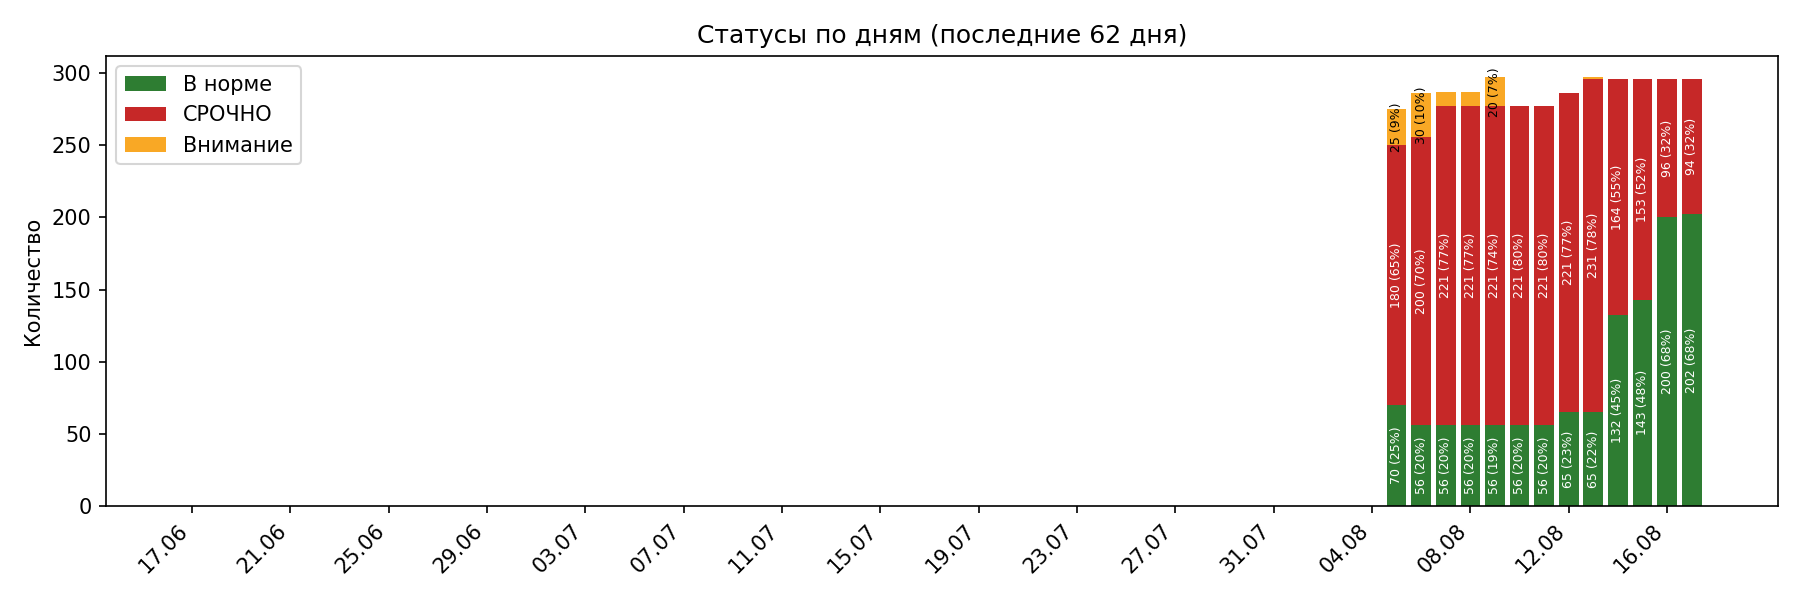
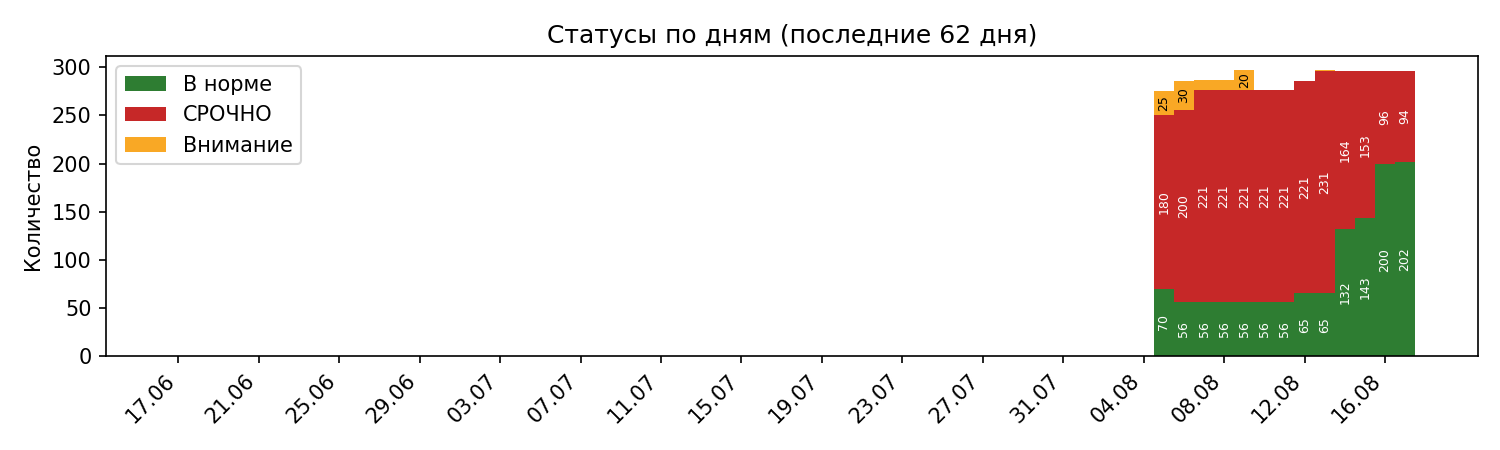
Изменены параметры визуализации графиков в функции create_email_body в maintenance_alert.py: уменьшены размеры фигуры и добавлена ширина для столбцов. Упрощены текстовые метки, убраны проценты из отображаемых значений. Обновлен бинарный файл графика статуса обслуживания.

Changed region(s): [[0.0, 0.0311, 1.0, 0.9644], [0.0307, 0.6533, 0.0613, 0.7467]]

diff --git a/maintenance_alert.py b/maintenance_alert.py
@@ -442,11 +442,11 @@ def create_email_body(urgent_items, warning_items, total_records, status_counts)
             warning_vals = [date_to_vals.get(d, (0, 0, 0))[2] for d in days_sorted]
 
             x = list(range(len(days_sorted)))
-            plt.figure(figsize=(12, 4))
-            ok_bars = plt.bar(x, ok_vals, color='#2E7D32', label='В норме')
-            urgent_bars = plt.bar(x, urgent_vals, bottom=ok_vals, color='#C62828', label='СРОЧНО')
+            plt.figure(figsize=(10, 3))
+            ok_bars = plt.bar(x, ok_vals, width=0.9, color='#2E7D32', label='В норме')
+            urgent_bars = plt.bar(x, urgent_vals, bottom=ok_vals, width=0.9, color='#C62828', label='СРОЧНО')
             bottom_stack = [ok_vals[i] + urgent_vals[i] for i in range(len(x))]
-            warning_bars = plt.bar(x, warning_vals, bottom=bottom_stack, color='#F9A825', label='Внимание')
+            warning_bars = plt.bar(x, warning_vals, bottom=bottom_stack, width=0.9, color='#F9A825', label='Внимание')
 
             # Подписи процентов и значений по каждому сегменту столбца
             for i, xpos in enumerate(x):
@@ -460,7 +460,7 @@ def create_email_body(urgent_items, warning_items, total_records, status_counts)
                         y_pos = ok_vals[i] / 2
                         plt.text(
                             xpos, y_pos,
-                            f"{ok_vals[i]} ({pct:.0f}%)",
+                            f"{ok_vals[i]}", # ({pct:.0f}%)
                             ha='center', va='center', rotation=90, fontsize=6, color='white'
                         )
                 # urgent
@@ -470,7 +470,7 @@ def create_email_body(urgent_items, warning_items, total_records, status_counts)
                         y_pos = ok_vals[i] + urgent_vals[i] / 2
                         plt.text(
                             xpos, y_pos,
-                            f"{urgent_vals[i]} ({pct:.0f}%)",
+                            f"{urgent_vals[i]}", # ({pct:.0f}%)
                             ha='center', va='center', rotation=90, fontsize=6, color='white'
                         )
                 # warning
@@ -480,7 +480,7 @@ def create_email_body(urgent_items, warning_items, total_records, status_counts)
                         y_pos = ok_vals[i] + urgent_vals[i] + warning_vals[i] / 2
                         plt.text(
                             xpos, y_pos,
-                            f"{warning_vals[i]} ({pct:.0f}%)",
+                            f"{warning_vals[i]}", # ({pct:.0f}%)
                             ha='center', va='center', rotation=90, fontsize=6, color='black'
                         )
             labels = [d.strftime('%d.%m') for d in days_sorted]
